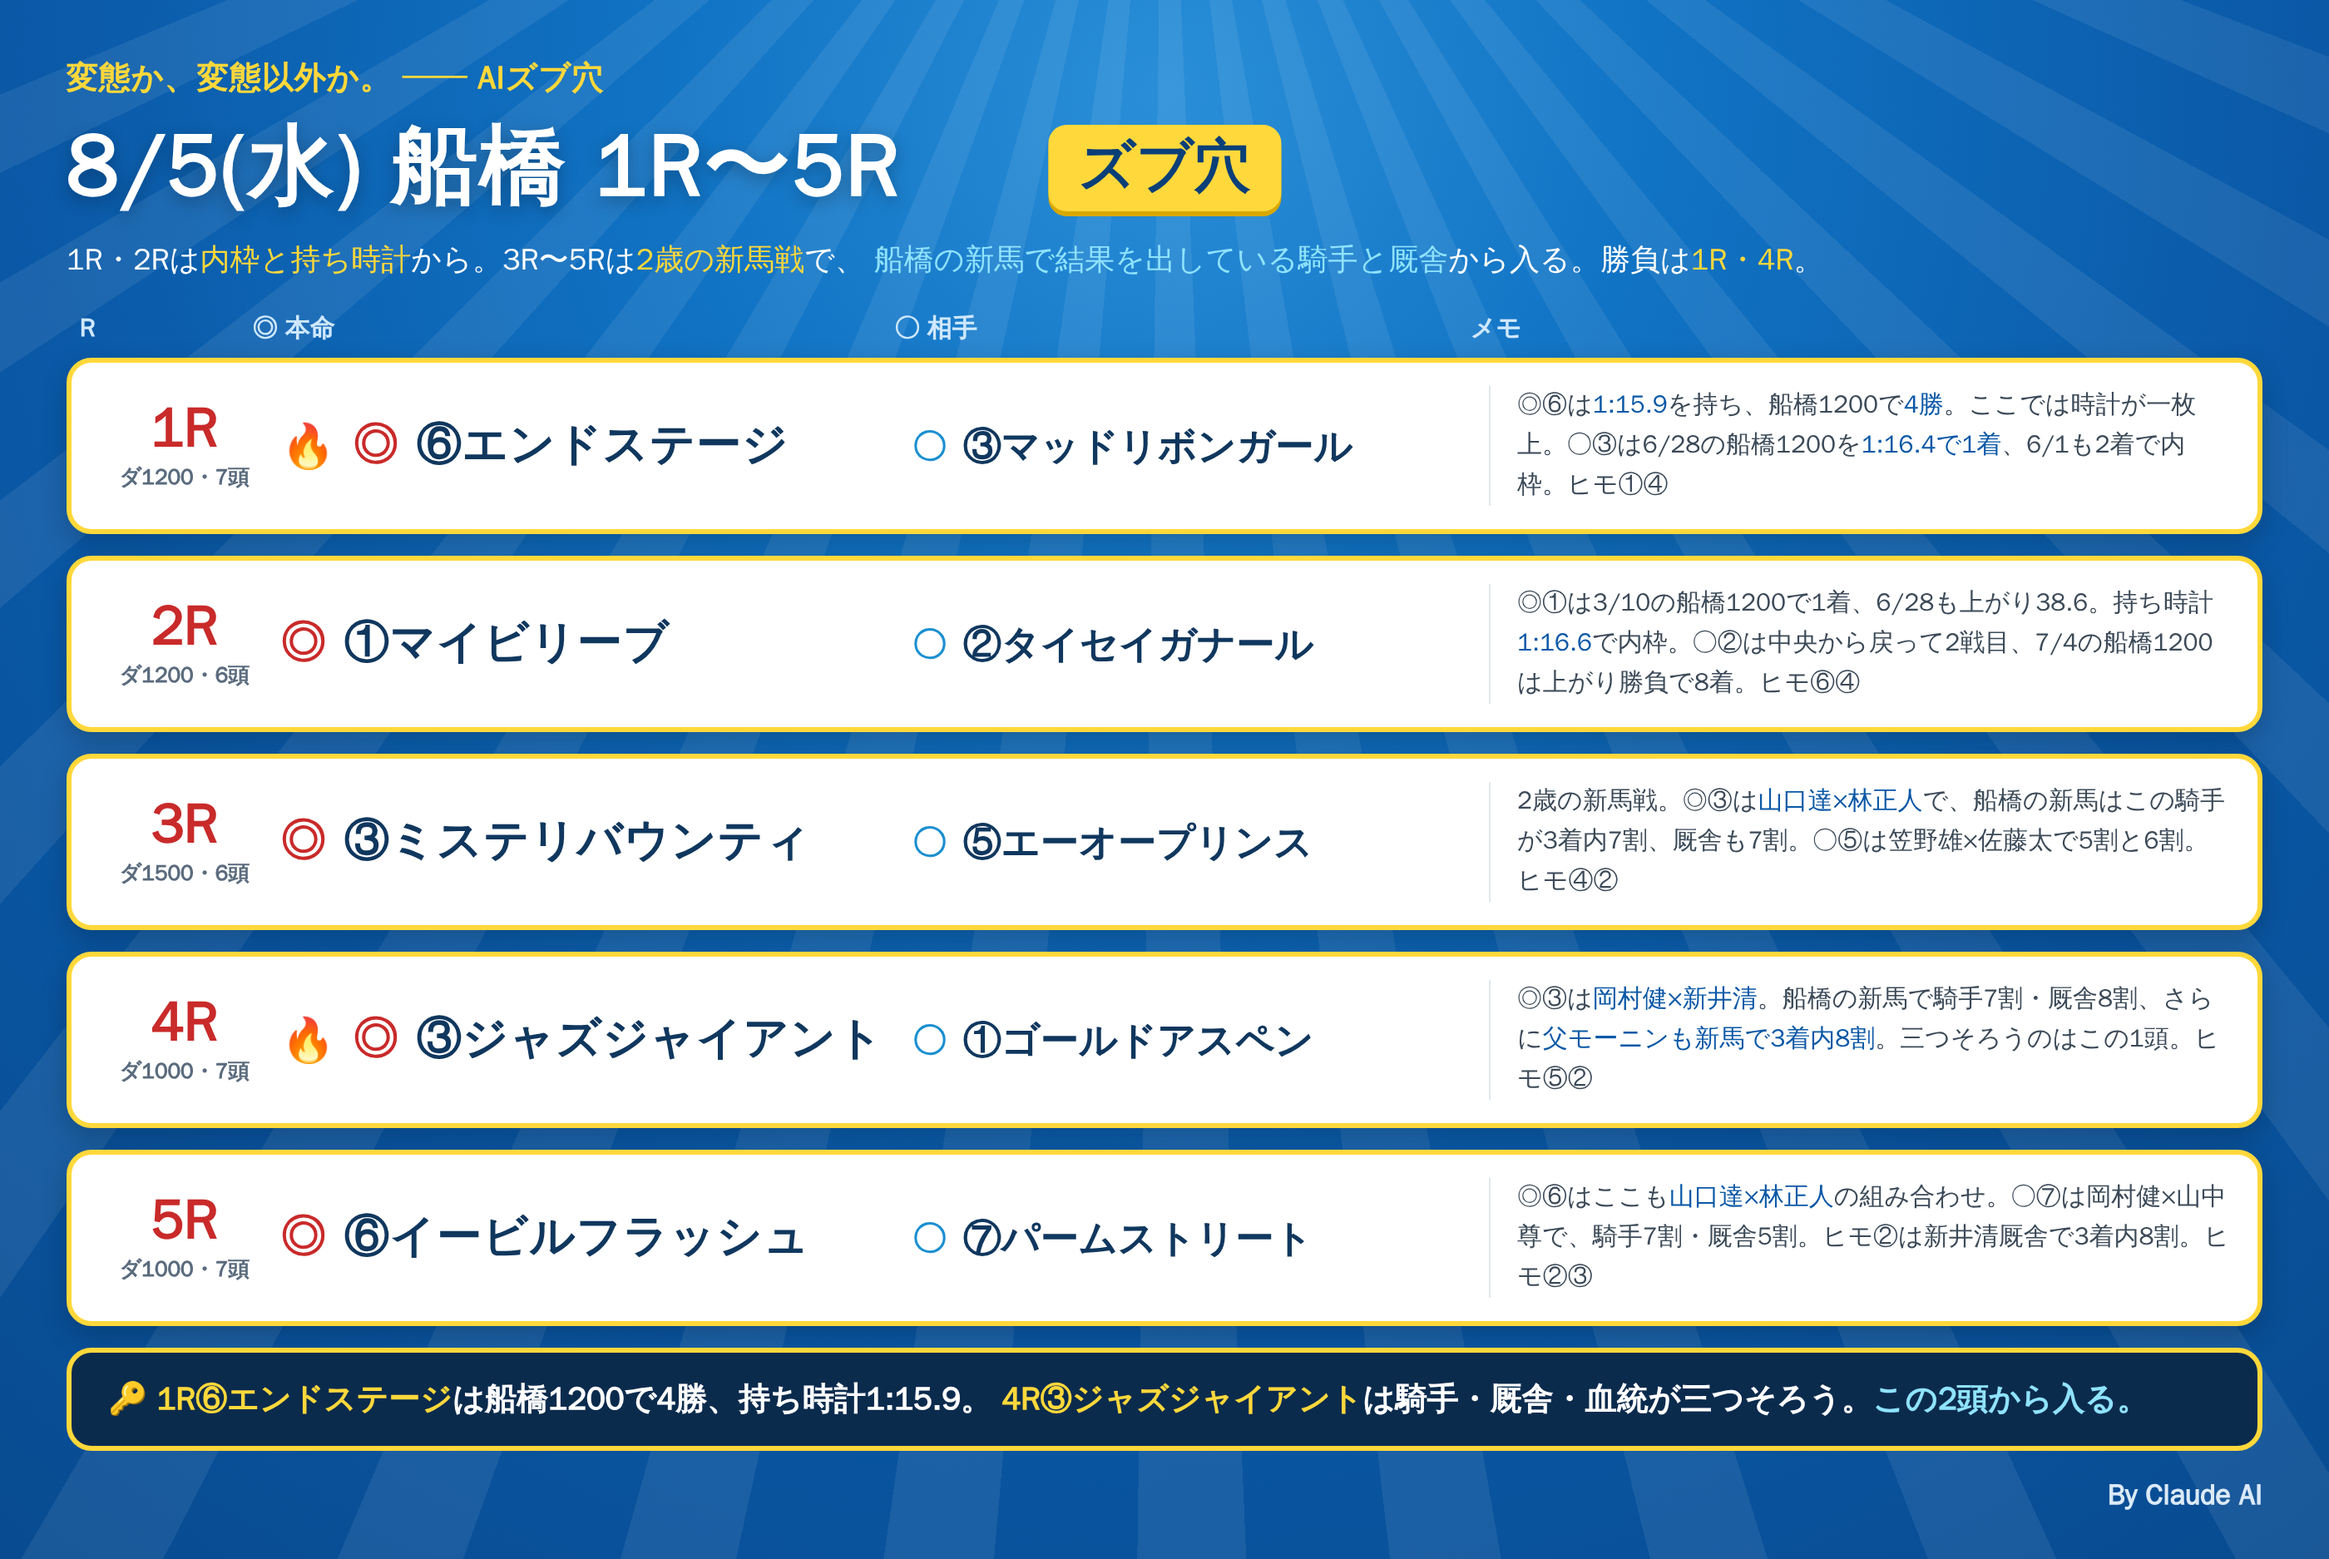
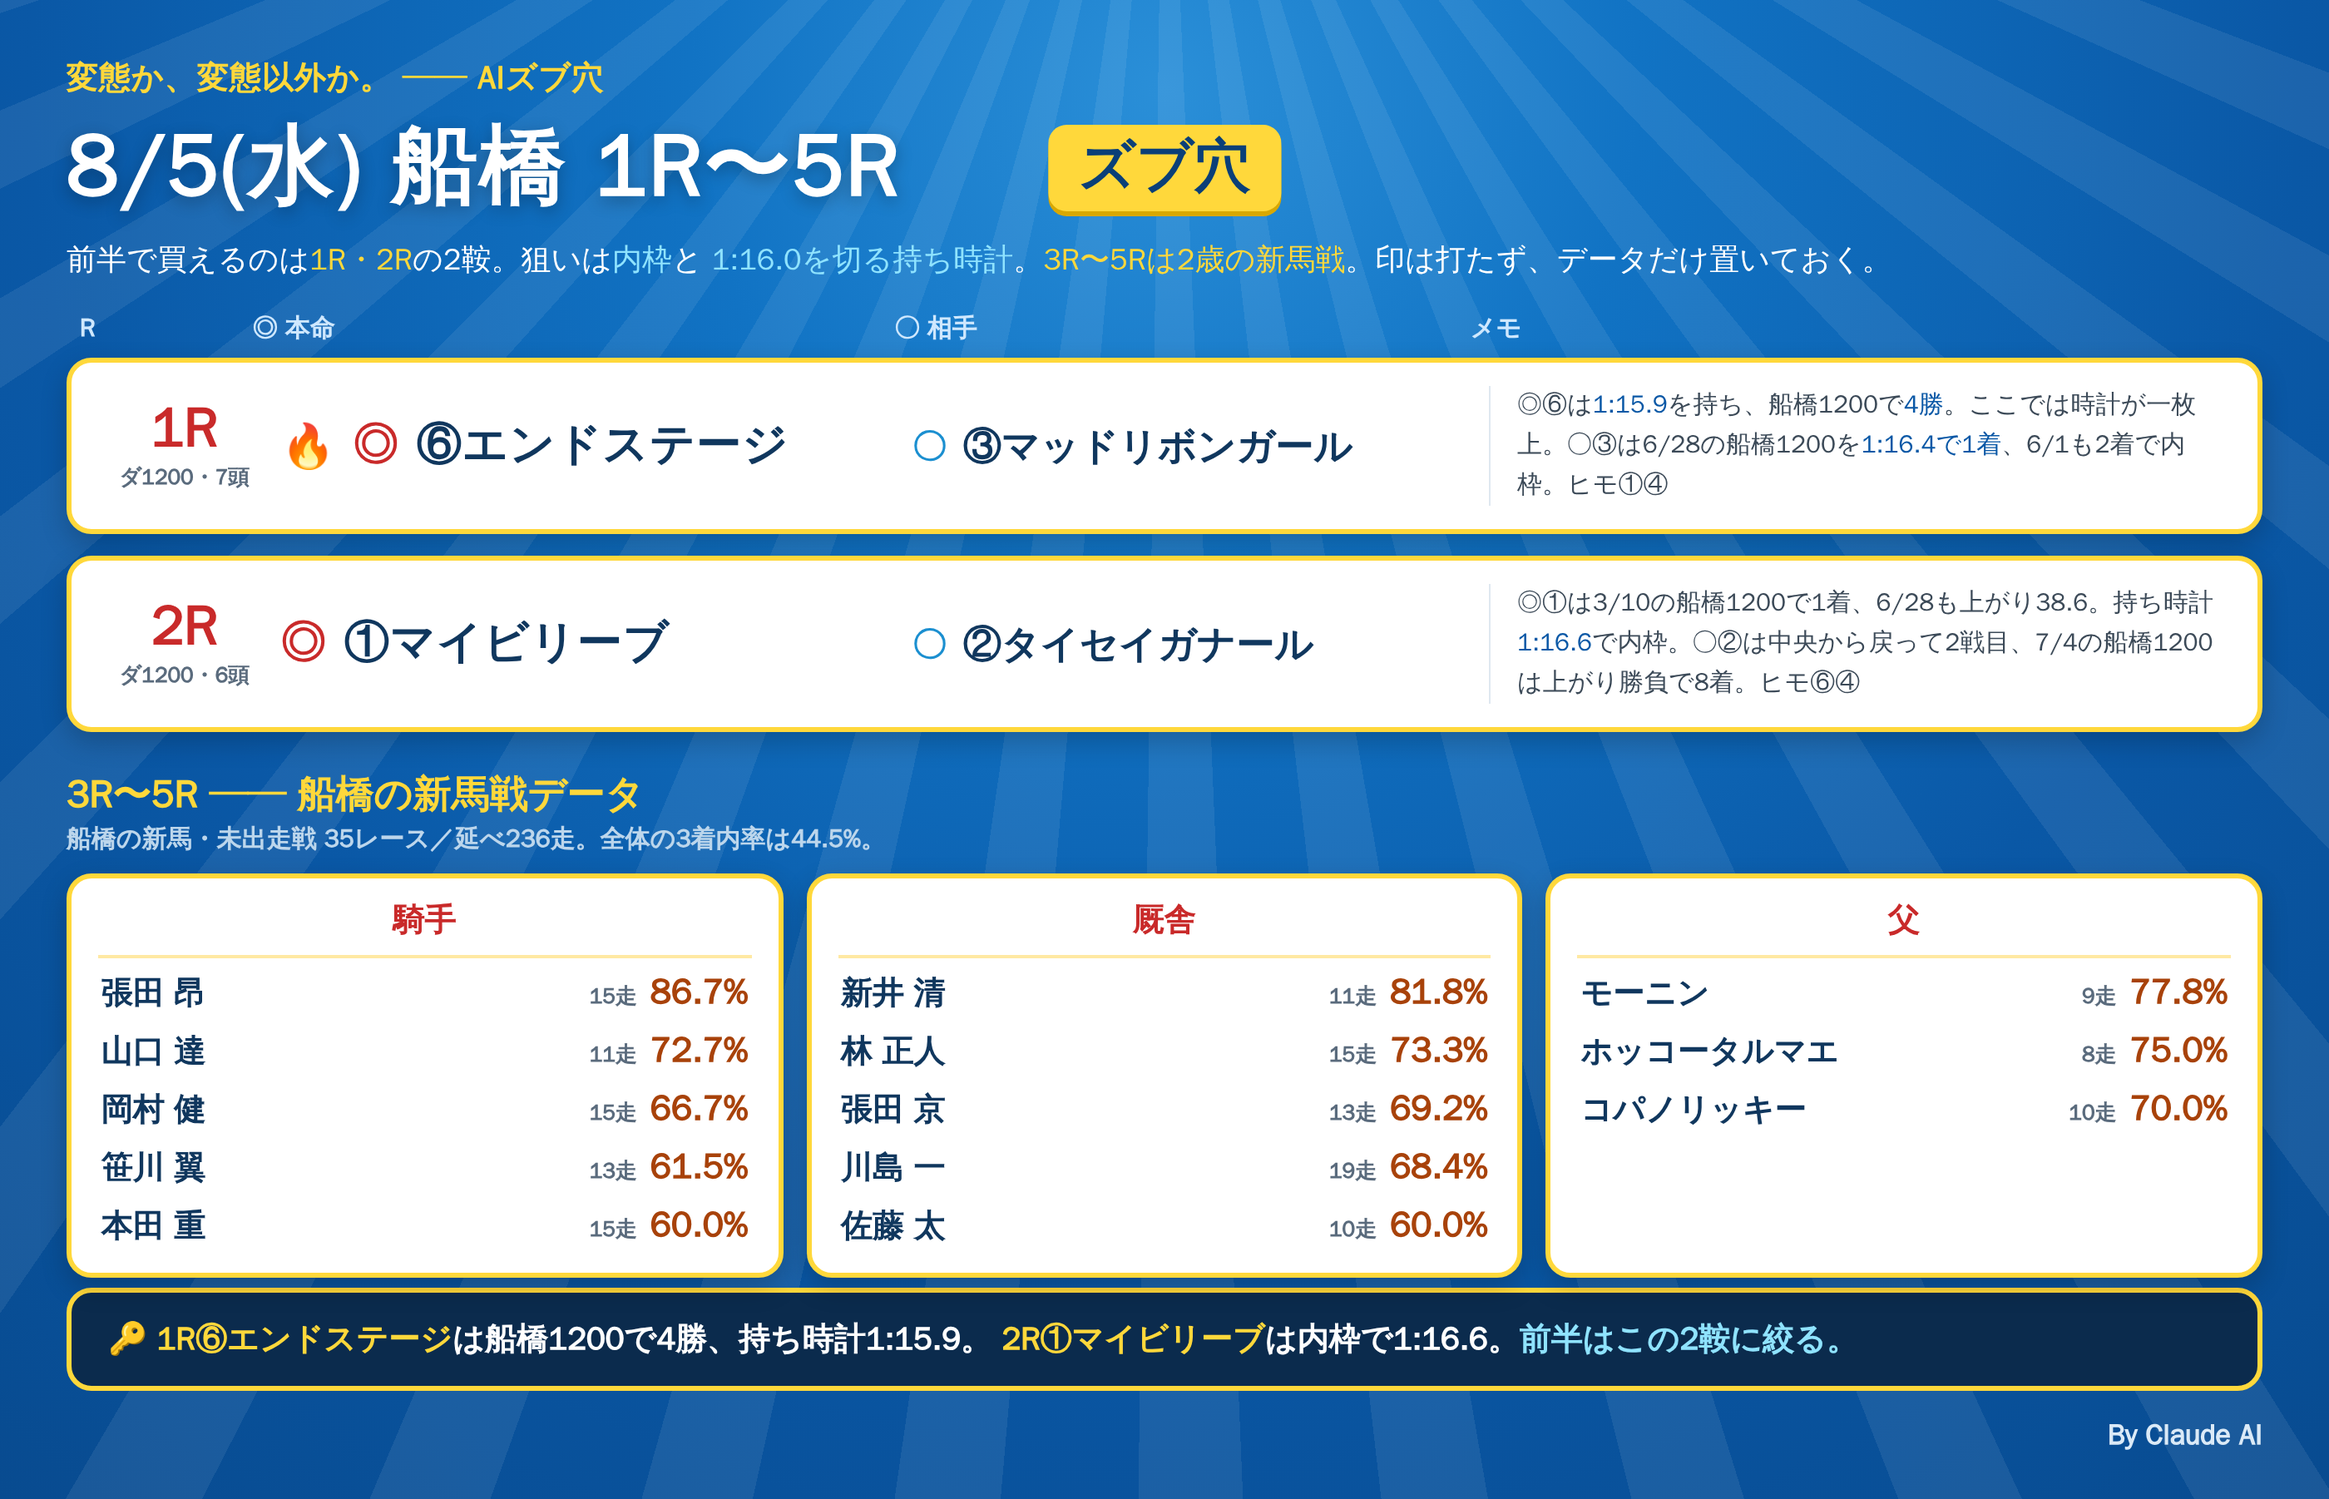
notes: drop marks for the maiden races, show the maiden-race table instead
Claude-Session: https://claude.ai/code/session_01RoHscZkr96FNaxQWvUqgEw

Changed region(s): [[0.0311, 0.0311, 0.9943, 0.9634], [0.3729, 0.2797, 0.5904, 0.3108], [0.4039, 0.404, 0.5593, 0.4351]]

diff --git a/notes/live/2026-08-05/funabashi_1_5.html b/notes/live/2026-08-05/funabashi_1_5.html
@@ -38,6 +38,19 @@
   .row.skip { border-color:#9fb6cc; background:#eef4fa; }
   .row.skip .rN .n { color:#6b7f93; }
 
+
+  .dtitle { color:#ffd83b; font-size:23px; font-weight:900; margin:22px 0 3px; }
+  .dsub { color:#bcd6ec; font-size:15px; font-weight:800; margin-bottom:10px; }
+  .panels { display:flex; gap:14px; }
+  .p { flex:1; background:#fff; border:3px solid #ffd83b; border-radius:15px; padding:12px 16px 14px;
+       box-shadow:0 6px 16px rgba(0,0,0,.2); }
+  .p h3 { color:#c92a2a; font-size:19px; font-weight:900; text-align:center; padding-bottom:8px;
+          border-bottom:2px solid #ffe9a3; }
+  .p .l { display:flex; align-items:baseline; padding:7px 2px 0; }
+  .p .l .k { flex:1; color:#10375e; font-size:19px; font-weight:900; }
+  .p .l .s { color:#5a6b7d; font-size:13px; font-weight:800; margin-right:8px; }
+  .p .l .v { color:#a8420a; font-size:21px; font-weight:900; }
+
   .foot { margin-top:6px; background:#0b2b4d; border:3px solid #ffd83b; border-radius:15px;
           padding:15px 22px; color:#fff; font-size:19px; font-weight:800; }
   .foot .y{color:#ffd83b;} .foot .c{color:#8fe3ff;}
@@ -49,8 +62,8 @@
     <div class="title">8/5(水) 船橋 1R〜5R</div>
     <div class="bdg">ズブ穴</div>
   </div>
-  <div class="lead">1R・2Rは<span class="y">内枠と持ち時計</span>から。3R〜5Rは<span class="y">2歳の新馬戦</span>で、
-  <span class="c">船橋の新馬で結果を出している騎手と厩舎</span>から入る。勝負は<span class="y">1R・4R</span>。</div>
+  <div class="lead">前半で買えるのは<span class="y">1R・2R</span>の2鞍。狙いは<span class="c">内枠</span>と
+  <span class="c">1:16.0を切る持ち時計</span>。<span class="y">3R〜5Rは2歳の新馬戦</span>。印は打たず、データだけ置いておく。</div>
   <div class="cols"><div class="cR">R</div><div class="cH">◎ 本命</div><div class="cA">○ 相手</div><div class="cM">メモ</div></div>
 
   <div class="row">
@@ -67,29 +80,32 @@
     <div class="memo">◎①は3/10の船橋1200で1着、6/28も上がり38.6。持ち時計<b>1:16.6</b>で内枠。○②は中央から戻って2戦目、7/4の船橋1200は上がり勝負で8着。ヒモ⑥④</div>
   </div>
 
-  <div class="row">
-    <div class="rN"><div class="n">3R</div><div class="d">ダ1500・6頭</div></div>
-    <div class="hm"><span class="mk">◎</span><span class="nm">③ミステリバウンティ</span></div>
-    <div class="at"><span class="mk2">○</span><span class="nm2">⑤エーオープリンス</span></div>
-    <div class="memo">2歳の新馬戦。◎③は<b>山口達×林正人</b>で、船橋の新馬はこの騎手が3着内7割、厩舎も7割。○⑤は笠野雄×佐藤太で5割と6割。ヒモ④②</div>
+  <div class="dtitle">3R〜5R ── 船橋の新馬戦データ</div>
+  <div class="dsub">船橋の新馬・未出走戦 35レース／延べ236走。全体の3着内率は44.5%。</div>
+  <div class="panels">
+  <div class="p"><h3>騎手</h3>
+    <div class="l"><span class="k">張田 昂</span><span class="s">15走</span><span class="v">86.7%</span></div>
+    <div class="l"><span class="k">山口 達</span><span class="s">11走</span><span class="v">72.7%</span></div>
+    <div class="l"><span class="k">岡村 健</span><span class="s">15走</span><span class="v">66.7%</span></div>
+    <div class="l"><span class="k">笹川 翼</span><span class="s">13走</span><span class="v">61.5%</span></div>
+    <div class="l"><span class="k">本田 重</span><span class="s">15走</span><span class="v">60.0%</span></div>
   </div>
-
-  <div class="row">
-    <div class="rN"><div class="n">4R</div><div class="d">ダ1000・7頭</div></div>
-    <div class="hm"><span class="fire">🔥</span><span class="mk">◎</span><span class="nm">③ジャズジャイアント</span></div>
-    <div class="at"><span class="mk2">○</span><span class="nm2">①ゴールドアスペン</span></div>
-    <div class="memo">◎③は<b>岡村健×新井清</b>。船橋の新馬で騎手7割・厩舎8割、さらに<b>父モーニンも新馬で3着内8割</b>。三つそろうのはこの1頭。ヒモ⑤②</div>
+  <div class="p"><h3>厩舎</h3>
+    <div class="l"><span class="k">新井 清</span><span class="s">11走</span><span class="v">81.8%</span></div>
+    <div class="l"><span class="k">林 正人</span><span class="s">15走</span><span class="v">73.3%</span></div>
+    <div class="l"><span class="k">張田 京</span><span class="s">13走</span><span class="v">69.2%</span></div>
+    <div class="l"><span class="k">川島 一</span><span class="s">19走</span><span class="v">68.4%</span></div>
+    <div class="l"><span class="k">佐藤 太</span><span class="s">10走</span><span class="v">60.0%</span></div>
   </div>
-
-  <div class="row">
-    <div class="rN"><div class="n">5R</div><div class="d">ダ1000・7頭</div></div>
-    <div class="hm"><span class="mk">◎</span><span class="nm">⑥イービルフラッシュ</span></div>
-    <div class="at"><span class="mk2">○</span><span class="nm2">⑦パームストリート</span></div>
-    <div class="memo">◎⑥はここも<b>山口達×林正人</b>の組み合わせ。○⑦は岡村健×山中尊で、騎手7割・厩舎5割。ヒモ②は新井清厩舎で3着内8割。ヒモ②③</div>
+  <div class="p"><h3>父</h3>
+    <div class="l"><span class="k">モーニン</span><span class="s">9走</span><span class="v">77.8%</span></div>
+    <div class="l"><span class="k">ホッコータルマエ</span><span class="s">8走</span><span class="v">75.0%</span></div>
+    <div class="l"><span class="k">コパノリッキー</span><span class="s">10走</span><span class="v">70.0%</span></div>
+  </div>
   </div>
 
   <div class="foot">🔑 <span class="y">1R⑥エンドステージ</span>は船橋1200で4勝、持ち時計1:15.9。
-  <span class="y">4R③ジャズジャイアント</span>は騎手・厩舎・血統が三つそろう。<span class="c">この2頭から入る。</span></div>
+  <span class="y">2R①マイビリーブ</span>は内枠で1:16.6。<span class="c">前半はこの2鞍に絞る。</span></div>
   <div class="sig">By Claude AI</div>
 </div></div>
 </body></html>
